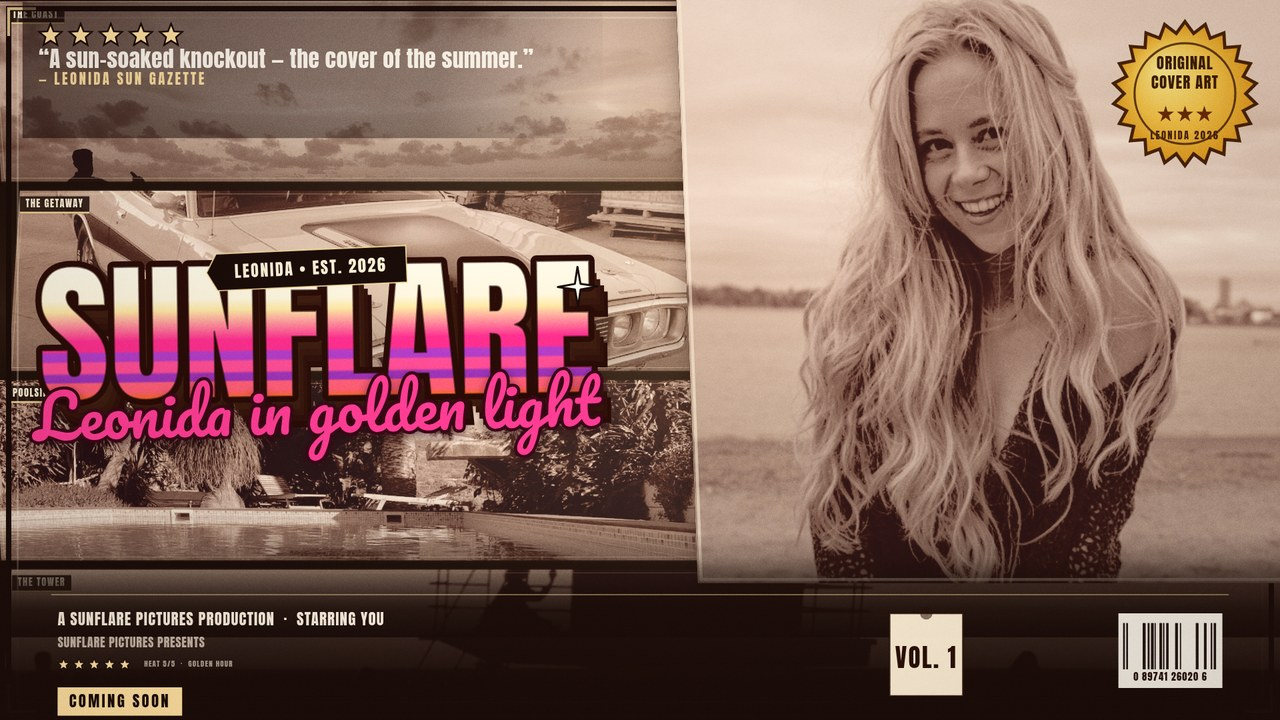
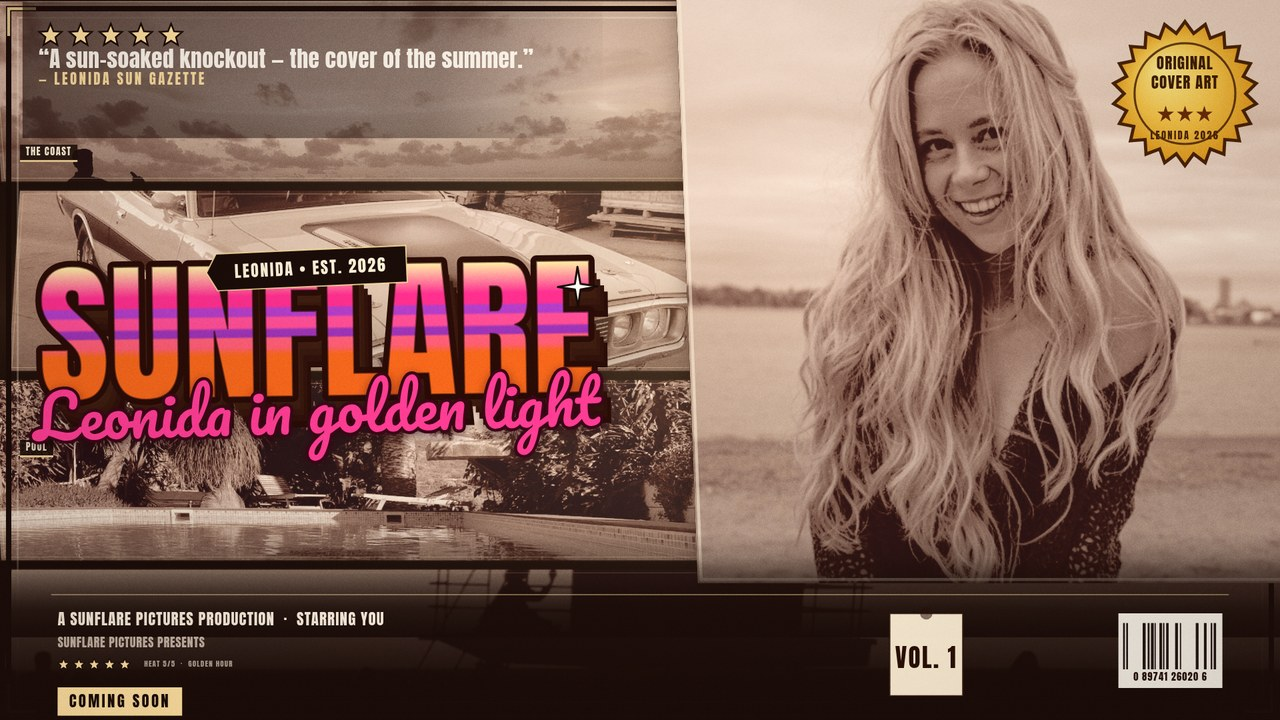
Sunflare: round 5 tag insets + story nits

diff --git a/app/src/render.js b/app/src/render.js
@@ -31,7 +31,10 @@ export const ROLE_TAGS = [
 /** The caption for a panel: the photo's own tag first, then a positional one. */
 export function panelRole(state, slot, index) {
   const photo = slot?.photo ? state.photos?.find((p) => p.id === slot.photo) : null;
-  return photo?.role || state.roles?.[index] || ROLE_TAGS[index % ROLE_TAGS.length];
+  const label = photo?.role || state.roles?.[index] || ROLE_TAGS[index % ROLE_TAGS.length];
+  // The deep inset leaves no room for the long label in a narrow strip panel,
+  // so the pool tag ships short: "POOL" keeps the inset without shrinking type.
+  return label === 'POOLSIDE' ? 'POOL' : label;
 }
 
 /** How tall the retail band is, per the round-5 recipe. */
@@ -279,29 +282,92 @@ function drawPhoto(ctx, image, slot, r, palette, anchor) {
   ctx.restore();
 }
 
-/** A small ink tag naming a panel's role, printed in its top-left corner. */
-function drawRoleTag(ctx, rect, label, palette, size) {
-  if (!label) return;
-  const h = Math.max(13, Math.min(size.w, size.h) * 0.024);
+/** Role tags painted by the last draw, so the shot gate can measure them. */
+const roleTagLog = [];
+
+/**
+ * Where a role tag would sit inside its panel: inset clear of the frame on all
+ * four sides, measured from the tightest slant edge the stroke actually draws.
+ * Returns null when the label cannot fit at that inset -- the tag is then
+ * dropped rather than clipped by the panel frame.
+ */
+function roleTagGeometry(ctx, rect, label, size) {
+  const minSide = Math.min(size.w, size.h);
+  const h = Math.max(13, minSide * 0.024);
   const fs = h * 0.56;
-  ctx.save();
-  ctx.font = `${fs}px ${TITLE_FACE}`;
-  ctx.letterSpacing = `${fs * 0.10}px`;
-  const tw = ctx.measureText(label).width;
   const pad = fs * 0.6;
-  const w = Math.min(tw + pad * 2, rect.w * 0.8);
-  const x = rect.x + h * 0.40 + Math.max(0, (rect.skew || 0) * 0.5);
-  const y = rect.y + h * 0.40;
+  const tw = measure(ctx, label, fs, TITLE_FACE, 0.10);
+  const inset = Math.max(12, Math.round(minSide * 0.028));
+  const s = rect.skew || 0;
+  // A slanted panel's left edge runs from x + skew at the top to x at the foot,
+  // so the tightest left edge is the taller of the two; the right edge the
+  // shorter. Measure from those, never from the un-skewed rect.
+  const leftEdge = s > 0 ? rect.x + s : rect.x;
+  const rightEdge = s > 0 ? rect.x + rect.w : rect.x + rect.w + s;
+  const w = tw + pad * 2;
+  if (rightEdge - leftEdge - inset * 2 < w || rect.h - inset * 2 < h) return null;
+  const yTop = rect.y + inset;
+  const yBottom = rect.y + rect.h - inset - h;
+  // The title, the press quote and the retail band each claim a strip of some
+  // panels, so the tag tries the top-left corner first and then walks down the
+  // panel until it finds a clear band. It is dropped only when every rung of
+  // that ladder is claimed by a safe zone.
+  const slots = [];
+  for (let y = yTop; y <= yBottom + 0.5; y += h * 1.2) slots.push(Math.round(y));
+  return slots.map((y) => ({ x: leftEdge + inset, y, w, h, fs, pad }));
+}
+
+/** A small ink tag naming a panel's role, printed inside its top-left corner. */
+function drawRoleTag(ctx, geo, label, palette) {
+  if (!geo || !label) return;
+  const { x, y, w, h, fs, pad } = geo;
+  ctx.save();
   ctx.fillStyle = rgba(palette.ink, 0.88);
   ctx.fillRect(x, y, w, h);
   ctx.fillStyle = rgba(palette.accent, 0.95);
   ctx.fillRect(x, y + h - Math.max(1, h * 0.11), w, Math.max(1, h * 0.11));
+  ctx.font = `${fs}px ${TITLE_FACE}`;
+  ctx.letterSpacing = `${fs * 0.10}px`;
   ctx.fillStyle = palette.paper;
   ctx.textAlign = 'left';
   ctx.textBaseline = 'middle';
   ctx.fillText(label, x + pad, y + h * 0.47, w - pad * 2);
   ctx.letterSpacing = '0px';
   ctx.restore();
+}
+
+/**
+ * The layout's safe zones. A tag that would land in the press-quote plate or
+ * over the retail band is withheld on that layout -- a dropped tag reads better
+ * than one sliced by the billing footer or lost under the quote. The hero's tag
+ * is likewise withheld while the pop-out covers its corner.
+ */
+function roleTagBlocked(ctx, geo, rect, plan, state, size) {
+  if (rect.hero && state.popout) return true;
+  const over = (r) => !(geo.x + geo.w <= r.x || r.x + r.w <= geo.x ||
+                        geo.y + geo.h <= r.y || r.y + r.h <= geo.y);
+  // The masthead is painted after the panels, so a tag under the lettering is
+  // invisible ink -- withhold it rather than let the title eat it. Measure the
+  // painted glyph run, not the plan box (which carries centring slack).
+  if (over(mastheadMetrics(ctx, state, plan).box)) return true;
+  if (rect.hero && state.popout) {
+    const k = plan.landscape ? 1.10 : 1.09;
+    const pivot = { x: rect.x + rect.w * 0.34, y: rect.y + rect.h * 0.62 };
+    const popped = { x: pivot.x - (pivot.x - rect.x) * k, y: pivot.y - (pivot.y - rect.y) * k,
+                     w: rect.w * k, h: rect.h * k };
+    if (over(popped)) return true;
+  }
+  if (state.kit?.quote !== false) {
+    const q = plan.quote;
+    const plate = { x: q.x - q.w * 0.03, y: q.y - q.h * 0.20, w: q.w * 1.08, h: q.h * 1.40 };
+    if (over(plate)) return true;
+  }
+  const kit = state.kit || {};
+  if (kit.billing || kit.barcode || kit.vol || kit.comingSoon) {
+    const band = { x: 0, y: plan.band.y - plan.band.h * 0.03, w: plan.band.w, h: plan.band.h };
+    if (over(band)) return true;
+  }
+  return false;
 }
 
 function drawPanels(ctx, state, plan, palette, graded, size) {
@@ -325,7 +391,17 @@ function drawPanels(ctx, state, plan, palette, graded, size) {
       ctx.stroke();
     }
     if (!rect.bleed && image && state.roleTags !== false) {
-      drawRoleTag(ctx, rect, panelRole(state, slot, i), palette, size);
+      const label = panelRole(state, slot, i);
+      const slots = roleTagGeometry(ctx, rect, label, size) || [];
+      const geo = slots.find((g) => !roleTagBlocked(ctx, g, rect, plan, state, size));
+      if (geo) {
+        drawRoleTag(ctx, geo, label, palette);
+        roleTagLog.push({
+          panel: i, hero: !!rect.hero, label,
+          box: { x: geo.x, y: geo.y, w: geo.w, h: geo.h },
+          frame: { x: rect.x, y: rect.y, w: rect.w, h: rect.h, skew: rect.skew || 0 },
+        });
+      }
     }
     ctx.restore();
   });
@@ -562,7 +638,12 @@ function drawSparkle(ctx, cx, cy, r, palette) {
   ctx.restore();
 }
 
-function drawMasthead(ctx, state, plan, palette, size) {
+/**
+ * The title block's real painted ink box in canvas pixels: the glyph run and
+ * the script subtitle, not the plan rectangle around them. Role tags are held
+ * back by this box, so a tag clear of the lettering still prints.
+ */
+function mastheadMetrics(ctx, state, plan) {
   const m = plan.masthead;
   const title = (state.title || '').trim() || 'SUNFLARE';
   const subText = (state.subtitle || '').trim();
@@ -598,6 +679,56 @@ function drawMasthead(ctx, state, plan, palette, size) {
   const by = m.y + Math.max(0, (m.h - (textH + (hasSub ? subBand : 0))) / 2);
   const angle = plan.landscape ? -0.014 : -0.012;
 
+  // The painted extent of the glyph run, in canvas coords, before the shadow
+  // and the 3D extrusion (those only add a few pixels and the tags keep 30).
+  let inkTop = Infinity;
+  let inkBottom = -Infinity;
+  let widest = 0;
+  ctx.save();
+  ctx.font = `${fsize}px ${TITLE_FACE}`;
+  ctx.letterSpacing = `${fsize * tracking}px`;
+  lines.forEach((line, i) => {
+    const yy = (i - (lines.length - 1) / 2) * lineH;
+    const mm = ctx.measureText(line);
+    inkTop = Math.min(inkTop, yy - (mm.actualBoundingBoxAscent || fsize * 0.72));
+    inkBottom = Math.max(inkBottom, yy + (mm.actualBoundingBoxDescent || 0));
+    widest = Math.max(widest, mm.width);
+  });
+  if (!(inkBottom - inkTop >= 1)) {
+    inkTop = -textH / 2;
+    inkBottom = textH / 2;
+  }
+  let subBottom = inkBottom;
+  if (hasSub) {
+    const ss = Math.max(11, Math.min(fsize * 0.52, subBand * 0.94, m.w * 0.16));
+    subBottom = inkBottom + ss * 1.15;
+    widest = Math.max(widest, Math.min(m.w * 1.02, measure(ctx, subText, ss, SCRIPT_FACE)));
+  }
+  ctx.restore();
+
+  const cx = bx + blockW / 2;
+  const cy = by + textH / 2;
+  const halfH = (subBottom - inkTop) / 2;
+  const skew = Math.abs(Math.sin(angle)) * widest * 0.5;
+  return {
+    title, subText, hasSub, lines, fsize, lineH, textH, bx, by, angle, tracking, subBand,
+    inkTop, inkBottom, cx, cy,
+    box: {
+      x: cx - widest / 2 - skew,
+      y: cy + inkTop - 6,
+      w: widest + skew * 2,
+      h: subBottom - inkTop + 12,
+    },
+  };
+}
+
+function drawMasthead(ctx, state, plan, palette, size) {
+  const m = plan.masthead;
+  const blockW = m.w;
+  const { title, subText, hasSub, lines, fsize, lineH, textH, bx, by, angle, tracking, subBand,
+          inkTop: glyphTop, inkBottom: glyphBottom } =
+    mastheadMetrics(ctx, state, plan);
+
   // Optional halftone plate behind the type (off by default: the title sits
   // straight on the art).
   if (state.halftone) {
@@ -618,19 +749,10 @@ function drawMasthead(ctx, state, plan, palette, size) {
   ctx.letterSpacing = `${fsize * tracking}px`;
 
   // Anton's caps are far shorter than its line box, so anchor the chrome ramp
-  // to the measured glyph ink box rather than to the line box.
-  let inkTop = Infinity;
-  let inkBottom = -Infinity;
-  lines.forEach((line, i) => {
-    const yy = (i - (lines.length - 1) / 2) * lineH;
-    const m2 = ctx.measureText(line);
-    inkTop = Math.min(inkTop, yy - (m2.actualBoundingBoxAscent || fsize * 0.72));
-    inkBottom = Math.max(inkBottom, yy + (m2.actualBoundingBoxDescent || 0));
-  });
-  if (inkBottom - inkTop < 1) {
-    inkTop = -textH / 2;
-    inkBottom = textH / 2;
-  }
+  // to the measured glyph ink box (local to the rotated block) rather than to
+  // the line box.
+  const inkTop = glyphTop;
+  const inkBottom = glyphBottom;
   const inkH = inkBottom - inkTop;
 
   const style = state.titleStyle ?? 'chrome';
@@ -749,8 +871,10 @@ function drawStars(ctx, count, x, y, r, palette) {
 
 /* --------------------------------------------------------------- retail kit */
 
-/** The gold starburst seal: "ORIGINAL COVER ART ★★★" in a jagged disc. */
-function drawSeal(ctx, cx, cy, r, palette) {
+/** The gold starburst seal: "ORIGINAL COVER ART ★★★" in a jagged disc. The
+ *  story sheet drops the caption line: the disc is small there and the caption
+ *  crowded the spikes, so the drop is aspect-specific. */
+function drawSeal(ctx, cx, cy, r, palette, caption = true) {
   const points = 22;
   ctx.save();
   ctx.beginPath();
@@ -792,12 +916,14 @@ function drawSeal(ctx, cx, cy, r, palette) {
   ctx.font = `${s2}px ${TITLE_FACE}`;
   ctx.fillStyle = '#6b2c06';
   ctx.fillText('★★★', cx, cy + r * 0.30, r * 1.1);
-  const s3 = r * 0.135;
-  ctx.font = `${s3}px ${TITLE_FACE}`;
-  ctx.letterSpacing = `${s3 * 0.16}px`;
-  ctx.fillStyle = '#4a2306';
-  ctx.fillText('LEONIDA 2026', cx, cy + r * 0.60, r * 1.2);
-  ctx.letterSpacing = '0px';
+  if (caption) {
+    const s3 = r * 0.135;
+    ctx.font = `${s3}px ${TITLE_FACE}`;
+    ctx.letterSpacing = `${s3 * 0.16}px`;
+    ctx.fillStyle = '#4a2306';
+    ctx.fillText('LEONIDA 2026', cx, cy + r * 0.60, r * 1.2);
+    ctx.letterSpacing = '0px';
+  }
   ctx.restore();
 }
 
@@ -992,9 +1118,13 @@ function drawRetail(ctx, state, plan, palette, size) {
   }
 
   if (kit.vol) {
-    const tw = Math.min(w * 0.075, b.h * 0.55);
+    // The story sheet sets the ticket tab wider and a touch further left, so
+    // the "VOL. 1" label keeps its air and a clear gap still separates the card
+    // from the barcode beside it.
+    const story = plan.tall > 1.5;
+    const tw = Math.min(w * (story ? 0.080 : 0.075), b.h * 0.55);
     const th = b.h * 0.62;
-    drawTicketTab(ctx, w * 0.695, b.y + b.h * 0.20, tw, th, palette, 'VOL. 1');
+    drawTicketTab(ctx, w * (story ? 0.688 : 0.695), b.y + b.h * 0.20, tw, th, palette, 'VOL. 1');
   }
 
   if (kit.barcode) {
@@ -1011,7 +1141,7 @@ function drawSealTop(ctx, state, plan, palette, size) {
   const r = Math.min(size.w, size.h) * 0.100;
   const cx = size.w - r * 1.32;
   const cy = r * 1.30;
-  drawSeal(ctx, cx, cy, r, palette);
+  drawSeal(ctx, cx, cy, r, palette, plan.tall <= 1.5);
 }
 
 function drawGrain(ctx, w, h, opacity = 0.10) {
@@ -1106,6 +1236,7 @@ export function drawCover(ctx, state, images, width, height) {
   const palette = { ink: grade.ink, paper: grade.paper, glow: grade.glow, accent: grade.accent };
   const size = { w: width, h: height };
   const plan = planFrame(state.layout, width, height);
+  roleTagLog.length = 0;
 
   ctx.save();
   ctx.clearRect(0, 0, width, height);
@@ -1189,7 +1320,7 @@ export function drawCover(ctx, state, images, width, height) {
 export const __debug = {
   drawMasthead, drawPanels, planFrame, drawRibbon, drawStars, drawSkyGlow,
   placePhoto, framedFaces, photoAnchor, drawRetail, drawSeal, drawBarcode,
-  drawPressQuote, drawPopout, drawTicketTab, retailBandHeight,
+  drawPressQuote, drawPopout, drawTicketTab, retailBandHeight, roleTagLog,
 };
 
 /** Renders the cover to a fresh canvas, ready for toBlob. */

diff --git a/app/src/shots.js b/app/src/shots.js
@@ -9,6 +9,13 @@
 // Every panel gets its OWN crop: a varied table seeded by the panel index, so no
 // two panels repeat the same zoom and offset (the round-3 bug where every panel
 // fell back to one crop cannot recur here).
+// Shot 1's grade is a measured gate, not a taste call: the Coral Dusk re-grade
+// was rendered on the cover1 scene and REJECTED -- it came out cooler than
+// Golden Hour: warm 0.3507 vs 0.400, sat 0.3826 vs 0.4156, chroma 42.72 vs
+// 44.56. So shot 1 stays Golden Hour (cover1 preset grade: 'golden') and the
+// experiment is not re-run. Skin safety under Golden Hour is proven: the hero
+// face reads mean rgb [152,116,101], saturation 0.352, inside the 0.15-0.60
+// band. Treat 0.399 as the warm-fraction floor for any future re-shoot here.
 
 /**
  * The four judged scenes, all golden hour: the landscape cover is the hero
